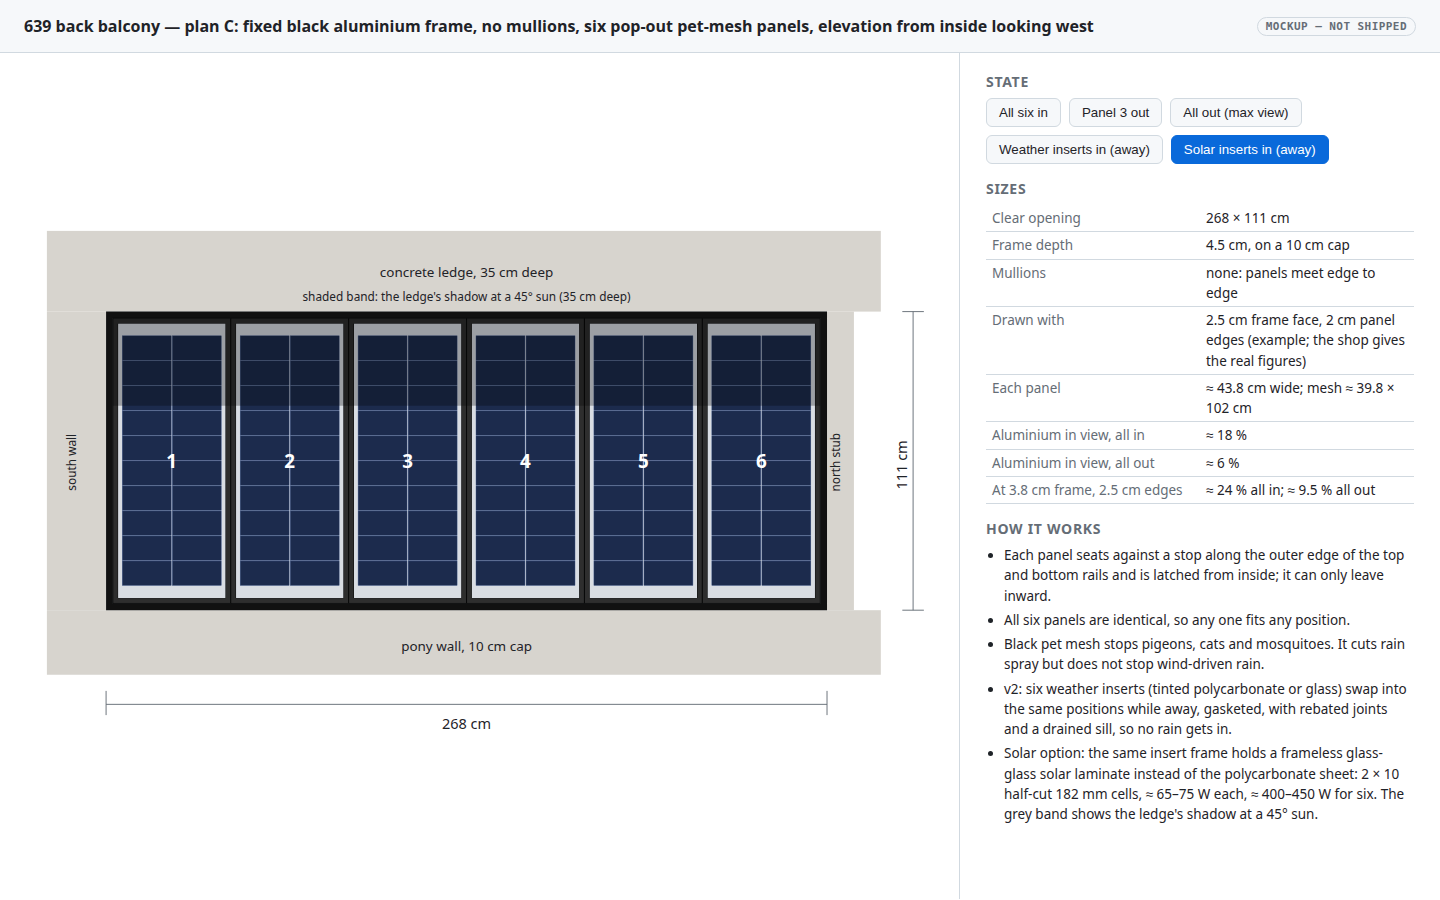
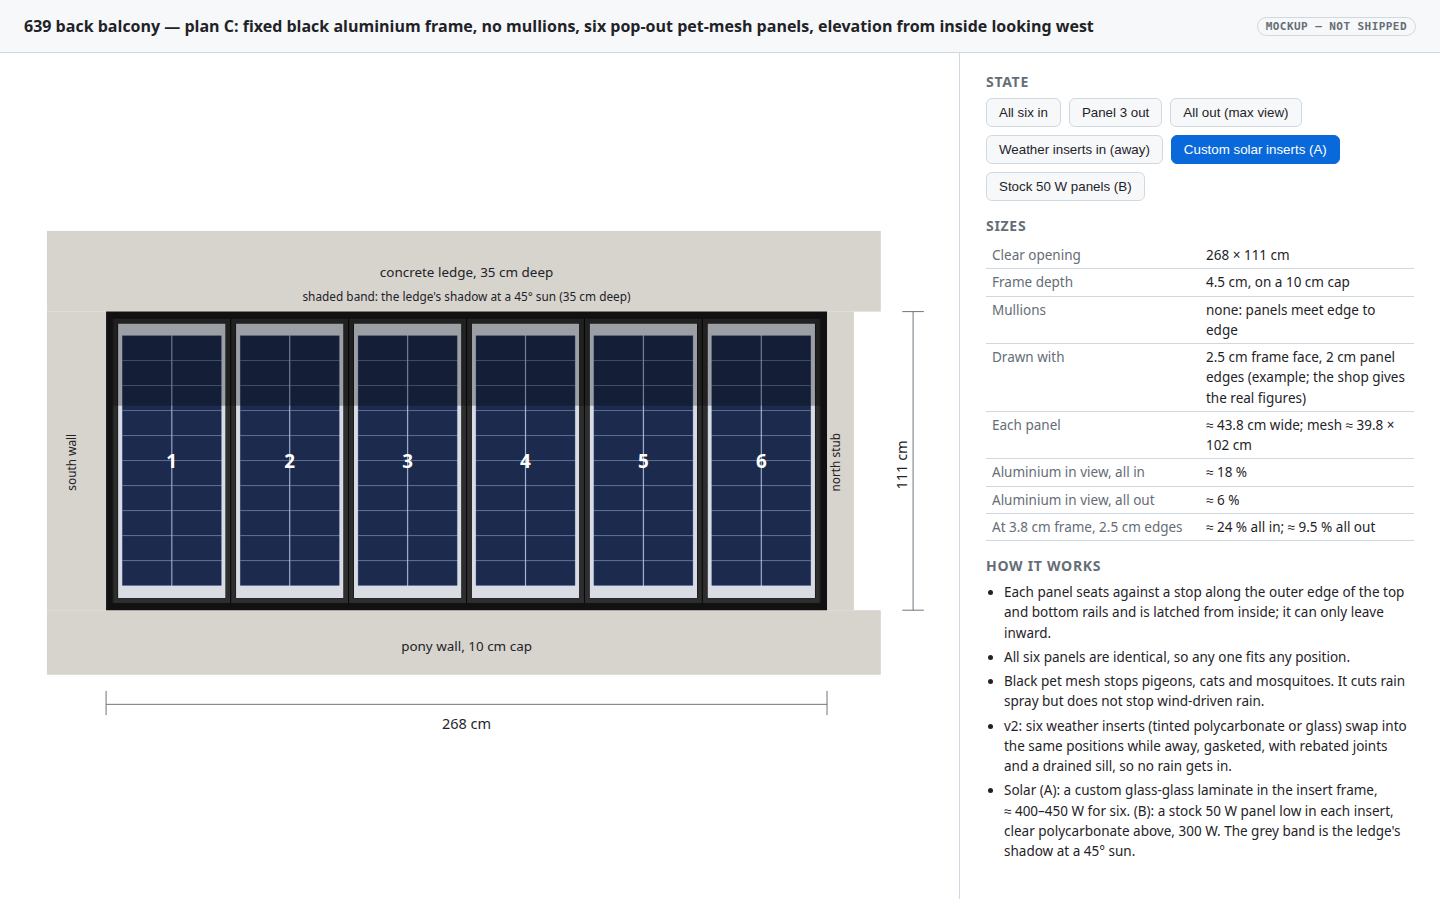
Balcony screen frame: solar options buyable in Thailand
Replace the US custom-maker suggestion with Thai sources (Sunnergy and
NSTHAI to quote a custom size; NSTHAI stock sizes) and a table of seven
ways to fit: custom laminate, stock 50/60 W panels low in each insert,
stock 100/150 W in double-width inserts, marine flexible on the inserts,
and stock panels behind clear inserts, each with an after-shade estimate
from PVGIS's beam share and the ledge's shadow depth. Evaluates the
overhang idea, recommends custom-or-stock-50 W, adds open question 7
(latches at any width) and a stock-panel mockup state.

Claude-Session: https://claude.ai/code/session_01YEenqRTjYzU5APTKovfevg

Changed region(s): [[0.6875, 0.2178, 1.0, 0.9644], [0.6875, 0.1867, 0.7812, 0.4356], [0.8125, 0.1556, 0.9375, 0.1867]]

diff --git a/docs/plans/2026-11-09-condo-639-balcony-screen-frame.md b/docs/plans/2026-11-09-condo-639-balcony-screen-frame.md
@@ -2,7 +2,7 @@
 
 9 November 2026 · **Being built** (Will, 2026‑11‑08). This is the plan for the balcony opening from now on. The earlier options, a motorised zip screen (plan A) and a glazed bi-fold window (plan B), are archived in the [balcony shade plan](2026-09-30-condo-balcony-shade.md), which also holds the game's level model of the balcony.
 
-**TL;DR.** A fixed black aluminium frame, 4.5 cm deep, with no mullions, fills the 268 × 111 cm opening. Six identical panels stand side by side in its rails and come out from inside for the full view. Three panel sets share the rails: **pet-mesh screens** for daily use, **weather inserts** (tinted polycarbonate or glass) that make it rain-tight while Will is away, and optional **solar inserts**, about 400–450 W for six. Shop sheets: [v1](../rfq/2026-11-08-639-balcony-screen-frame-spec.pdf) (screens only) and [v2](../rfq/2026-11-08-639-balcony-screen-frame-spec-v2.pdf) (screens and weather inserts; give the shop this one).
+**TL;DR.** A fixed black aluminium frame, 4.5 cm deep, with no mullions, fills the 268 × 111 cm opening. Six identical panels stand side by side in its rails and come out from inside for the full view. Three panel sets share the rails: **pet-mesh screens** for daily use, **weather inserts** (tinted polycarbonate or glass) that make it rain-tight while Will is away, and optional **solar inserts**: custom panels if a Thai maker will build six (≈ 350 W after the ledge's shade), or six stock 50 W panels from a Bangkok shop (≈ 245 W). Shop sheets: [v1](../rfq/2026-11-08-639-balcony-screen-frame-spec.pdf) (screens only) and [v2](../rfq/2026-11-08-639-balcony-screen-frame-spec-v2.pdf) (screens and weather inserts; give the shop this one).
 
 ## Context
 
@@ -93,11 +93,11 @@ To take a panel out, release the bolt, lift the panel into the lift space, swing
 
 **Request** (Will, 2026‑11‑09): the option to fit solar panels in the frame instead of the screens or the weather inserts, using new panels made for it, or the six existing positions if that can seal the opening in place of polycarbonate.
 
-**Answer: yes, the six positions work.** A solar insert is the v2 weather insert with a **frameless glass-glass solar laminate in place of the polycarbonate sheet**. It keeps the same insert frame, EPDM gaskets, rebated joints and cam latches, so it seals as well as the polycarbonate, in the same rails, with **no change to the frame or the v2 sheet**. The insert's glazing pocket already takes up to 6.38 mm laminated glass, and a 2 mm + 2 mm glass-glass laminate is about 5 mm thick. Solar inserts can therefore be ordered later, to the sheet size the shop gives for the polycarbonate.
+**Answer: yes, the six positions work.** The cleanest solar insert (option A below) is the v2 weather insert with a **frameless glass-glass solar laminate in place of the polycarbonate sheet**. It keeps the same insert frame, EPDM gaskets, rebated joints and cam latches, so it seals as well as the polycarbonate, in the same rails, with **no change to the frame or the v2 sheet**. The insert's glazing pocket already takes up to 6.38 mm laminated glass, and a 2 mm + 2 mm glass-glass laminate is about 5 mm thick. Solar inserts can therefore be ordered later, to the sheet size the shop gives for the polycarbonate.
 
 [![Plan C with solar inserts](2026-11-09-condo-639-balcony-screen-frame/elevation-plan-c-solar.png)](2026-11-09-condo-639-balcony-screen-frame/elevation-plan-c.html#solar)
 
-**What fits.** Each position shows a sheet of about 39.8 × 102 cm (2.5 cm frame face, 2 cm panel edges) or 38.4 × 98 cm (3.8 cm, 2.5 cm). Two columns of today's standard 182 mm cells, cut in half (182 × 91 mm), make a block 36.4 cm wide, and ten rows make it about 93 cm tall, which fits either case:
+**What fits a custom laminate.** Each position shows a sheet of about 39.8 × 102 cm (2.5 cm frame face, 2 cm panel edges) or 38.4 × 98 cm (3.8 cm, 2.5 cm). Two columns of today's standard 182 mm cells, cut in half (182 × 91 mm), make a block 36.4 cm wide, and ten rows make it about 93 cm tall, which fits either case:
 
 | Item | Per insert | Six inserts |
 |---|---|---|
@@ -108,11 +108,40 @@ To take a panel out, release the bolt, lift the panel into the lift space, swing
 | Weight with insert frame | ≈ 5 kg, like the tempered-glass option | ≈ 30 kg |
 | Yield, vertical west, Bangkok | | ≈ 1.7–2.2 kWh per kW per day by month before the ledge shade; ≈ 0.6 kWh/day for the set after it, only while fitted |
 
-**No catalogue panel fits.** The near misses: a 70 W narrow panel at 1070 × 360 × 25 mm ([Exotronic](https://mygenerator.com.au/product/exotronic-70w-narrow-fixed-monocrystalline-solar-panel)) is 5 cm too tall; a 60 W panel at 830 × 400 × 25 mm ([Couleenergy](https://couleenergy.com/?p=4070)) is too wide for the 3.8 cm frame case; "slim" 100–130 W panels ([Rich Solar MEGA 130 Slim](https://richsolar.com/products/mega-130-slim-130-watt-12-volt-solar-panel)) are 1.5–1.7 m long. Framed panels are also 25–35 mm thick against the 16 mm insert. So the laminate is a custom size: dual-glass makers build to order ([Couleenergy custom dual-glass](https://couleenergy.com/?p=3930)), and six identical pieces is a small, simple order.
+### Buying in Thailand, and other ways to fit
 
-**Bigger new panels gain nothing.** With no mullions, the panel widths are free: three inserts of ≈ 87.7 cm or two of ≈ 131.5 cm would fit the same rails. But the power is set by the glass area, about 2.4 m² of the 2.97 m² opening, so it stays ≈ 400–450 W. Bigger inserts weigh ≈ 10–15 kg each to lift in 16 m up, need their own latch positions, and no longer swap with the screens. Six of one size is the better design.
+**Will, 2026‑11‑09:** "i can't order custom panels made in usa --- i'm in thailand!", asking about other panel sizes, marine flexible panels, and letting the extra 5 cm of a too-tall panel hang over the room side of the pony-wall cap.
 
-**Yield and the ledge.** [PVGIS](https://re.jrc.ec.europa.eu/pvg_tools/en/) gives 671 kWh per kW per year for a vertical west face in Bangkok (13.70 N, 100.55 E, 14 % system losses), 46 % of the 1,472 at the best tilt of 17°. The 35 cm ledge shades the top of the panels whenever the sun is high: by a sun-path calculation, about a third of the direct sun reaching the sheets falls in its shadow, and direct sun is roughly half of what a west wall receives, so expect about 15–20 % less. That holds only if the **bypass diodes split each laminate into horizontal bands**, because the shadow moves down from the top; cells strung top to bottom would lose most of their output whenever the top row is shaded. So the six give about 230 kWh a year, ≈ 0.6 kWh a day, if fitted all year.
+**Where to buy.** Thai shops sell standard sizes; none found advertises custom sizes outright. Two are worth asking for a ≈ 40 × 95 cm panel: [Sunnergy](https://www.sunnergysolar.com/category/164/%E0%B8%AB%E0%B8%A1%E0%B8%A7%E0%B8%94%E0%B9%81%E0%B8%9C%E0%B8%87%E0%B9%82%E0%B8%8B%E0%B8%A5%E0%B9%88%E0%B8%B2%E0%B9%80%E0%B8%8B%E0%B8%A5%E0%B8%A5%E0%B9%8C) says it makes 5–400 W panels and designs systems to order, and [NSTHAI](https://www.nsthai.com/solar-panel) lists 5–200 W stock sizes and asks buyers to enquire about sizes not in its table. Chinese factories make custom sizes and ship to Bangkok, but custom work usually starts at 50 or more pieces, with single samples sold as prototypes ([Alibaba's seller guide](https://seller.alibaba.com/blogs/2026/southeast-asia/renewable-energy/custom-size-solar-panels-lead-time-moq-guide-alibaba-b2b)).
+
+**The ledge decides more than the panel size.** On a vertical west wall in Bangkok, 53 % of the sunlight is direct, 33 % diffuse sky and 14 % reflected ([PVGIS](https://re.jrc.ec.europa.eu/pvg_tools/en/), 2020 hourly data). The 35 cm ledge's shadow reaches more than 5 cm down for 94 % of the direct sun, more than 20 cm for 65 %, more than 30 cm for 48 % and more than 40 cm for 35 % (sun-path calculation). Two rules follow:
+
+- **Mount the panel low** in its insert, with clear polycarbonate filling the space above, so the shadow falls on the filler first.
+- **Orient the bypass-diode groups as horizontal bands.** Standard panels usually group their cells along the long side, so a portrait panel has vertical groups: a shadow on its top edge cuts every group and loses nearly all the direct light, about half the panel's output. Turned landscape, the groups become bands and only the top one drops out. Check each model's datasheet for its diode layout.
+
+**Options**, nameplate watts for the whole opening and an estimate after the ledge's shadow (other losses are in the yield figure below):
+
+| Option | Where from | Inserts | Nameplate | After ledge shade | Notes |
+|---|---|---|---|---|---|
+| A. Custom glass-glass laminate, 2 × 10 half-cut cells, bands horizontal | ask Sunnergy or NSTHAI; China at 50+ pieces | 6 alike, swap with the screens | ≈ 420 W | ≈ 350 W | the best result, if a maker will build 6 |
+| B. **50 W stock panel, 630 × 395 × 25 mm**, one per insert at the bottom, clear polycarbonate above | [NSTHAI](https://www.nsthai.com/solar-panel) stock | 6 alike, swap with the screens | 300 W | ≈ 245 W | **recommended stock option**: available now, keeps six identical inserts, light |
+| C. 60 W stock panel, 790 × 405 × 25 mm, at the bottom | [Solarbesttech](https://www.solarbesttech.com/th/products/444046-%E0%B9%81%E0%B8%9C%E0%B8%87%E0%B9%82%E0%B8%8B%E0%B8%A5%E0%B9%88%E0%B8%B2%E0%B9%80%E0%B8%8B%E0%B8%A5%E0%B8%A5%E0%B9%8C-mono-solar-panel-%E0%B8%A3%E0%B8%B8%E0%B9%88%E0%B8%99-gspv60m-60w-5bb) | 6 alike | 360 W | ≈ 250 W | taller, so it reaches up into more shadow; 40.5 cm wide, so the insert edge covers its frame border |
+| D. 100 W stock panel, 620 × 765 mm, turned landscape at the bottom | NSTHAI stock | 3 double-width (≈ 88 cm) | 300 W | ≈ 265 W | least shade loss if its diode halves become bands; ≈ 8 kg per insert (estimate) |
+| E. 150 W stock panel, 980 × 765 mm, portrait | NSTHAI stock | 3 double-width | 450 W | ≈ 225 W | fits with no overhang, but portrait: the ledge costs about half; ≈ 10 kg per insert (estimate) |
+| F. Marine semi-flexible ≈ 50 W, ≈ 810 × 330 × 2 mm, bonded to the outer face of each polycarbonate insert | flexible panels are sold in Thailand ([JIB](https://www.jib.co.th/web/product/readProduct/83316/1379/SOLAR-PANAL--แผงโซล่าเซลล์--ECOFLOW-100W-FLEXIBLE-SOLAR-PANEL)); this narrow size is a listing seen on Alibaba | the weather inserts themselves | ≈ 300 W | ≈ 200 W | thinnest, but bonded flat with no air behind it runs hot; check the warranty |
+| G. Stock panels on brackets **behind clear weather inserts**, inside | any stock size, e.g. two 200 W, 1200 × 765 mm, landscape | the weather inserts, unchanged | 400 W | ≈ 280 W | no change to frame or inserts; loses ≈ 10–15 % through the polycarbonate; needs clear, not tinted, inserts |
+
+The "after ledge shade" column applies the shadow figures above to each layout (direct light lost where the shadow reaches a diode group, diffuse and reflected light kept). It is an estimate, not a measurement.
+
+**The overhang idea (Will).** A 160 W panel at 1055 × 765 mm is 3.5–7.5 cm too tall for a double-width insert, and its bottom could hang below the cap on the room side in a holding channel. It would need the frame set at the cap's inner edge and a sill that lets the panel pass inboard of the water dam, so a sill that the shop has not drawn yet; and as a portrait panel it loses about half to the ledge, ≈ 240 W after shade. Option E fits without the overhang, and B, D or G do better, so the overhang is not worth the special sill.
+
+[![Option B: stock 50 W panels low in each insert](2026-11-09-condo-639-balcony-screen-frame/elevation-plan-c-stock.png)](2026-11-09-condo-639-balcony-screen-frame/elevation-plan-c.html#stock)
+
+**Recommendation.** Ask Sunnergy and NSTHAI to quote option A. If neither will build six, use option B: six stock 50 W panels, one at the bottom of each insert, clear polycarbonate above. Any of the double-width options (D, E) needs the cam latches to work at any panel width, so ask the shop now whether the latches engage a continuous groove along the rails (open question 7).
+
+**Thickness.** Stock panels are 25–30 mm thick against a 16 mm insert. The insert frame holds the panel with its glass in the insert's plane, and the panel's frame stands about 10–15 mm proud on the room side, which the rails do not mind. A gasket or silicone bead seals the panel's frame to the insert frame on the outside face.
+
+**Yield and the ledge.** [PVGIS](https://re.jrc.ec.europa.eu/pvg_tools/en/) gives 671 kWh per kW per year for a vertical west face in Bangkok (13.70 N, 100.55 E, 14 % system losses), 46 % of the 1,472 at the best tilt of 17°. The 35 cm ledge shades the top of the panels whenever the sun is high: by a sun-path calculation, about a third of the direct sun reaching the sheets falls in its shadow, and direct sun is roughly half of what a west wall receives, so expect about 15–20 % less. That holds only if the **bypass diodes split each laminate into horizontal bands**, because the shadow moves down from the top; cells strung top to bottom would lose most of their output whenever the top row is shaded. So the six custom laminates give about 230 kWh a year, ≈ 0.6 kWh a day, if fitted all year; the stock options in the table give roughly 0.4–0.5 kWh a day.
 
 **Wiring.** An edge-mounted slim junction box on each laminate with short leads and plug connectors at the sill, on the room side, so an insert still pops out after one unplug and the set still stacks to about 10 cm. Two strings of three panels run to a small MPPT charge controller indoors.
 
@@ -142,7 +171,7 @@ stateDiagram-v2
 
 [![Elevation](2026-11-09-condo-639-balcony-screen-frame/elevation-plan-c.png)](2026-11-09-condo-639-balcony-screen-frame/elevation-plan-c.html)
 
-**Elevation**: the black perimeter frame with six panels meeting edge to edge, drawn with a 2.5 cm frame face and 2 cm panel edges. Buttons switch between all six screens in, panel 3 out, all out, weather inserts in and solar inserts in. [Open the interactive mockup](2026-11-09-condo-639-balcony-screen-frame/elevation-plan-c.html).
+**Elevation**: the black perimeter frame with six panels meeting edge to edge, drawn with a 2.5 cm frame face and 2 cm panel edges. Buttons switch between all six screens in, panel 3 out, all out, weather inserts in, custom solar inserts in, and stock 50 W panels in (option B). [Open the interactive mockup](2026-11-09-condo-639-balcony-screen-frame/elevation-plan-c.html).
 
 [![v2 frame details](2026-11-09-condo-639-balcony-screen-frame/frame-detail-v2.png)](2026-11-09-condo-639-balcony-screen-frame/frame-detail-v2.html)
 
@@ -160,6 +189,7 @@ stateDiagram-v2
 4. **Mixed sets.** Can a screen sit next to a weather or solar insert? The inserts have rebated edges and the screens do not. Ask the shop to detail that joint, or keep each set whole.
 5. ~~**Does this replace the zip screen and the bi-fold?**~~ Answered 2026‑11‑09: yes, this is the plan going forward (Will); plans A and B are archived.
 6. ~~**Heat and damp while sealed.**~~ Answered 2026‑11‑08: the side window lets air through at all times (Will), so the balcony is not a closed box with the inserts in. The frame and inserts need no vent of their own.
+7. **Latches at any panel width?** Ask the shop whether the cam latches engage a continuous groove along the rails. If they do, double-width solar inserts (options D, E) fit later with no frame change; if the latch points are fixed at the six panel positions, only the six-alike options (A, B, C, F, G) do.
 
 ## Out of scope
 

diff --git a/docs/plans/.history/2026-11-09-condo-639-balcony-screen-frame.md b/docs/plans/.history/2026-11-09-condo-639-balcony-screen-frame.md
@@ -1,0 +1,11 @@
+| Date | Change |
+|------|--------|
+| [2026-11-09](https://github.com/wbniv/WorldFoundry/commit/7a50bd79) | Balcony: break the screen frame out as its own plan; archive A and B |
+
+<!--history-meta v1
+7a50bd79	author	Will Norris
+7a50bd79	added	178
+7a50bd79	deleted	0
+7a50bd79	files	1
+7a50bd79	body	The fixed screen frame (formerly plan C) is the plan going forward, so it\nmoves to docs/plans/2026-11-09-condo-639-balcony-screen-frame.md with its\nmockups and SVG generators: context and measurements, the v1 screens, v2\nweather inserts, solar inserts, open questions renumbered 1-6, and\nhandover verification checks. The balcony shade plan marks plans A (zip\nscreen) and B (bi-fold) archived and points to the new plan; its level\nmodel section is unchanged. The plan-B RFQ TODO item is parked.\n\nCo-Authored-By: Claude Opus 5.5 <noreply@anthropic.com>\nClaude-Session: https://claude.ai/code/session_01YEenqRTjYzU5APTKovfevg
+-->
